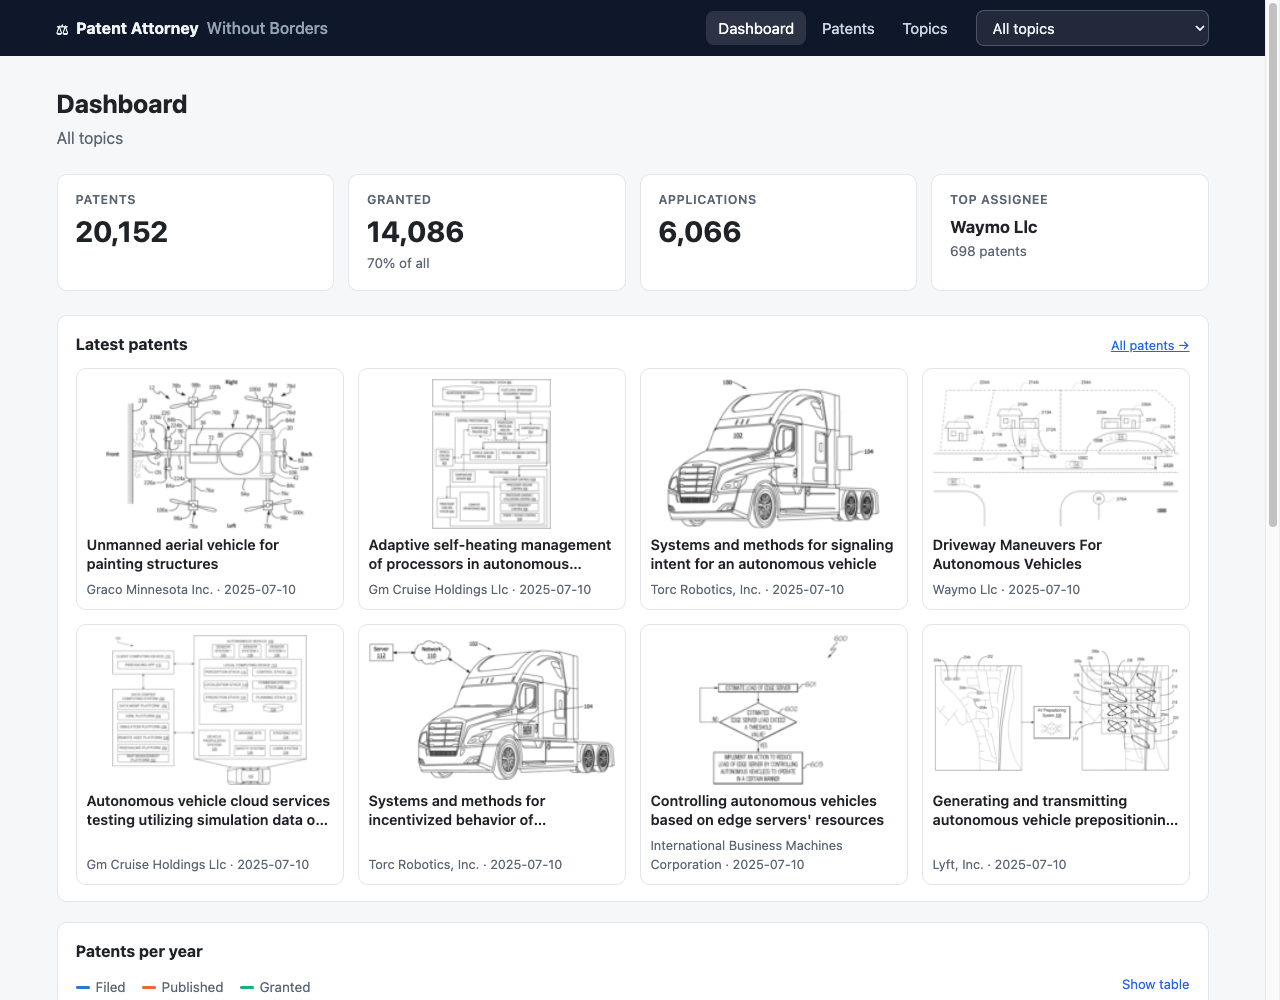
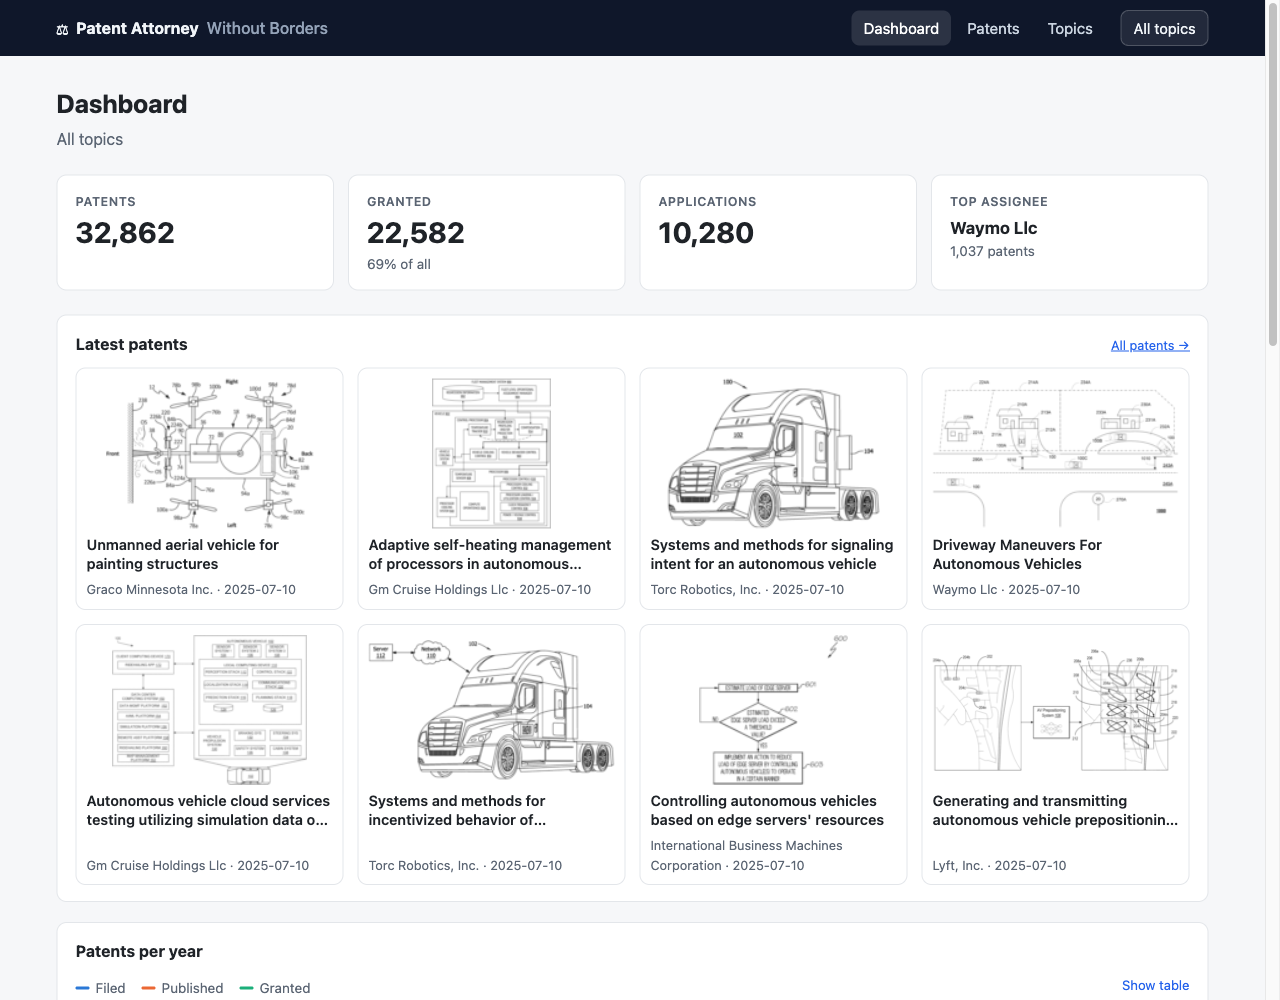
chore: release 3.0.0

diff --git a/backend/config/settings.py b/backend/config/settings.py
@@ -165,7 +165,7 @@ LOGGING = {
 
 SPECTACULAR_SETTINGS = {
     "TITLE": "Patent Attorney Without Borders API",
-    "DESCRIPTION": "US patents of a few technology topics from Google Patents Public Data: topics, patents, figures, dashboard statistics.",
-    "VERSION": "2.0.0",
+    "DESCRIPTION": "US patents by technology topic from Google Patents Public Data: topics defined by keywords, patents ranked by the topics they match, figures, citations, dashboard statistics.",
+    "VERSION": "3.0.0",
     "SERVE_INCLUDE_SCHEMA": False,
 }

diff --git a/CHANGELOG.md b/CHANGELOG.md
@@ -1,5 +1,35 @@
 # Changelog
 
+## 3.0.0 — 2026-04-19
+
+Topics are defined in the dashboard and combined: select the topics that describe an idea, and the patents matching most of them come first.
+
+### Added
+
+- Add, edit and delete topics on the Topics page: a name and keywords, matched as whole words in titles and abstracts, plurals included. A new topic shows the stored patents it matches at once and is then collected from the public data, with its progress, failures and a retry on the page. `PATENTS_ALLOW_TOPIC_EDITS` and `PATENTS_MAX_TOPICS` bound it; `/api/config/` tells the dashboard.
+- Select several topics in the header; the patent list ranks patents by the number of selected topics they match, then by citations, or keeps only those matching all (`?topics=1,2&match=all`, ordering `matched`).
+- Dashboard: the topics' publications per year side by side, assignee countries (narrowing the dashboard to one country), the most cited patents.
+- Patents keep their abstract, the country of their first assignee and the number of applications citing them; search covers abstracts, the list filters by country and sorts by citations, the details show all of it.
+- A collection queue (`jobs.py`) that the web process and the `run_collector` service share; the Compose collector picks up dashboard topics within 30 seconds.
+- A hint to start the backend when the API cannot be reached.
+
+### Changed
+
+- Patents are stored once and linked to all topics they match (`Topic` replaces `Dataset`); `/api/topics/` replaces `/api/datasets/`, `?topics=` replaces `?dataset=`.
+- Topics are matched in titles and abstracts: the snapshot holds 32,862 patents (was 20,152), 422 of them in more than one topic.
+- The snapshot is one file with topics, keywords and links, loaded into an empty database only, so deleted topics stay deleted.
+- DuckDB's threads follow the available memory (abstract chunks take about 100 MB each).
+- Chart axes also round to 2.5 steps.
+
+### Fixed
+
+- A stalled HTTP read could hang a collection for a day: `http_timeout` is in seconds, not milliseconds.
+- Plurals ending in -ies and -es are matched.
+
+### Removed
+
+- `/api/datasets/` and the `dataset` parameter.
+
 ## 2.0.0 — 2026-03-07
 
 The dashboard fills itself: patents are collected from Google Patents Public Data instead of imported by hand.

diff --git a/README.md b/README.md
@@ -9,7 +9,10 @@ A dashboard of US patents by technology topic — drones, autonomous driving and
 ## Features
 
 - **Topics you define**: add, edit or delete topics on the Topics page with a name and keywords (words or phrases, matched as whole words in titles and abstracts, plurals included). A new topic shows the stored patents it matches at once, then grows while it is collected from the public data, with its progress on the page.
-- **Several topics at once**: select them in the header, and the patent list ranks patents by how many of the topics they match ("3 of 3" first), or keeps only those matching all.
+- **Several topics at once**: select them in the header, and the patent list ranks patents by how many of the topics they match ("3 of 3" first, the most cited first among equals), or keeps only those matching all.
+
+  ![Patents matching both drones and cybersecurity](docs/ranking.png)
+
 - **Dashboard** for the selection: patents, grants and applications, the latest patents as cards with their figures, filings / publications / grants per year, the topics' publications per year side by side, assignee countries (a click narrows the dashboard to one country's assignees), the most cited patents, top assignees with their grant rate, top inventors. Charts can be shown as tables.
 - **Representative figures** from Google Patents in the dashboard, the patent list and the details; a figure or card opens the patent on Google Patents.
 - **Patent list** with full-text search (titles, abstracts, names), filters for assignee (with suggestions), inventor, assignee country, grant status and publication years, sortable columns including citations, 25–100 rows per page. Filters and the open patent live in the URL, so every view can be shared.
